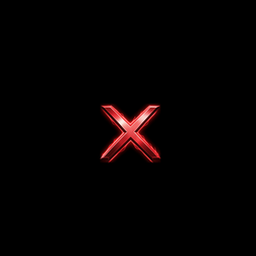
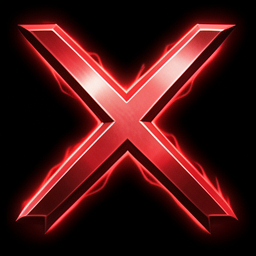
combo horni znacka: vetsi (120px) jen v CSS, PNG ps tlacek vraceno na original (dolni tlacitka zase velka)

diff --git a/public/style.css b/public/style.css
@@ -332,7 +332,7 @@ body.no-scroll { overflow: hidden; }
    PNG má plné černé pozadí (RGB, bez alpha) → overflow:hidden je nutné, aby
    border-radius:50% ořízl černý čtverec na kruh. Velký symbol, tenký ring (3px). */
 .combo-ring img {
-  width:90px;height:90px;
+  width:120px;height:120px;
   border-radius:50%;border:2px solid #fff;
   object-fit:cover;overflow:hidden;
   background:#111;display:block;
